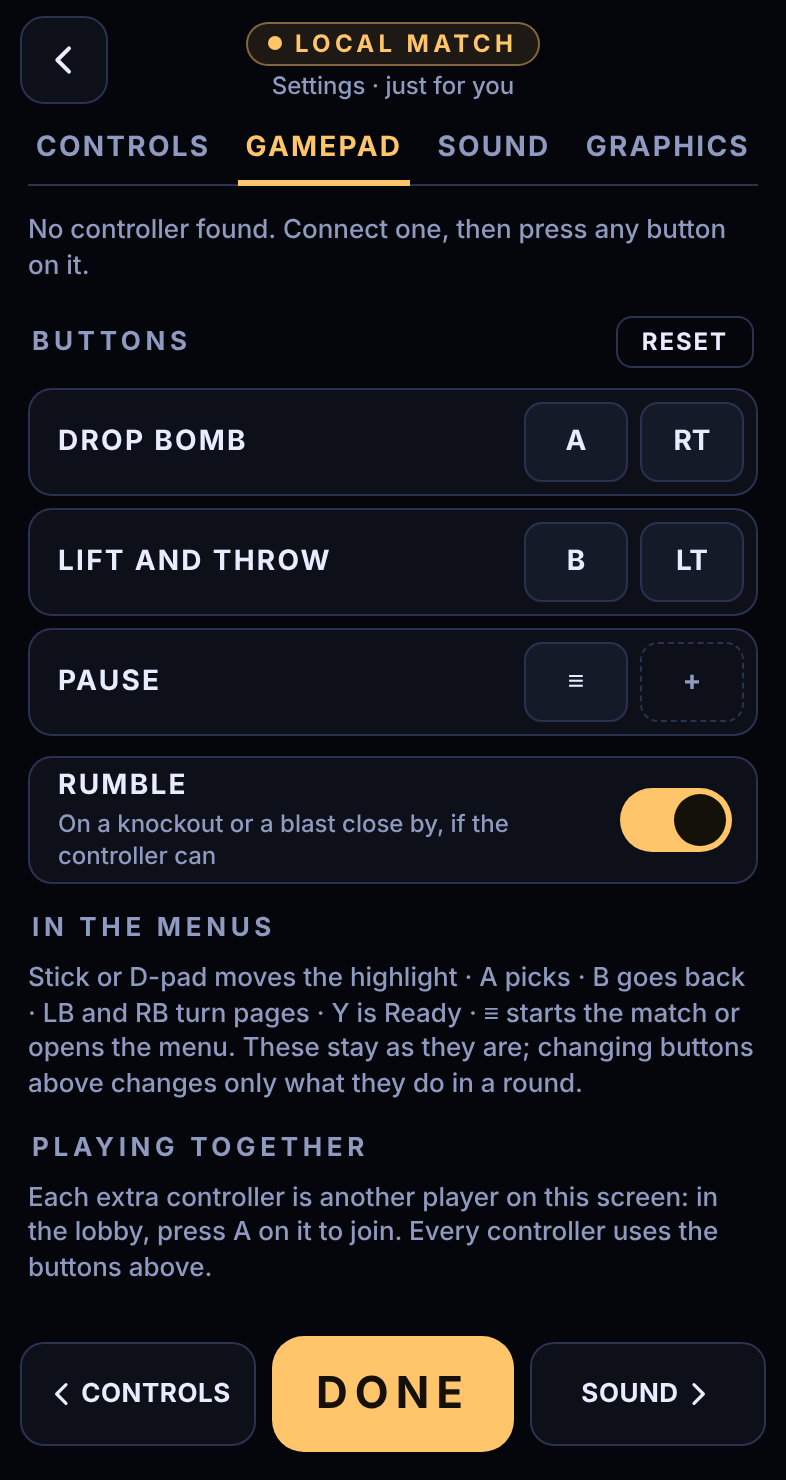
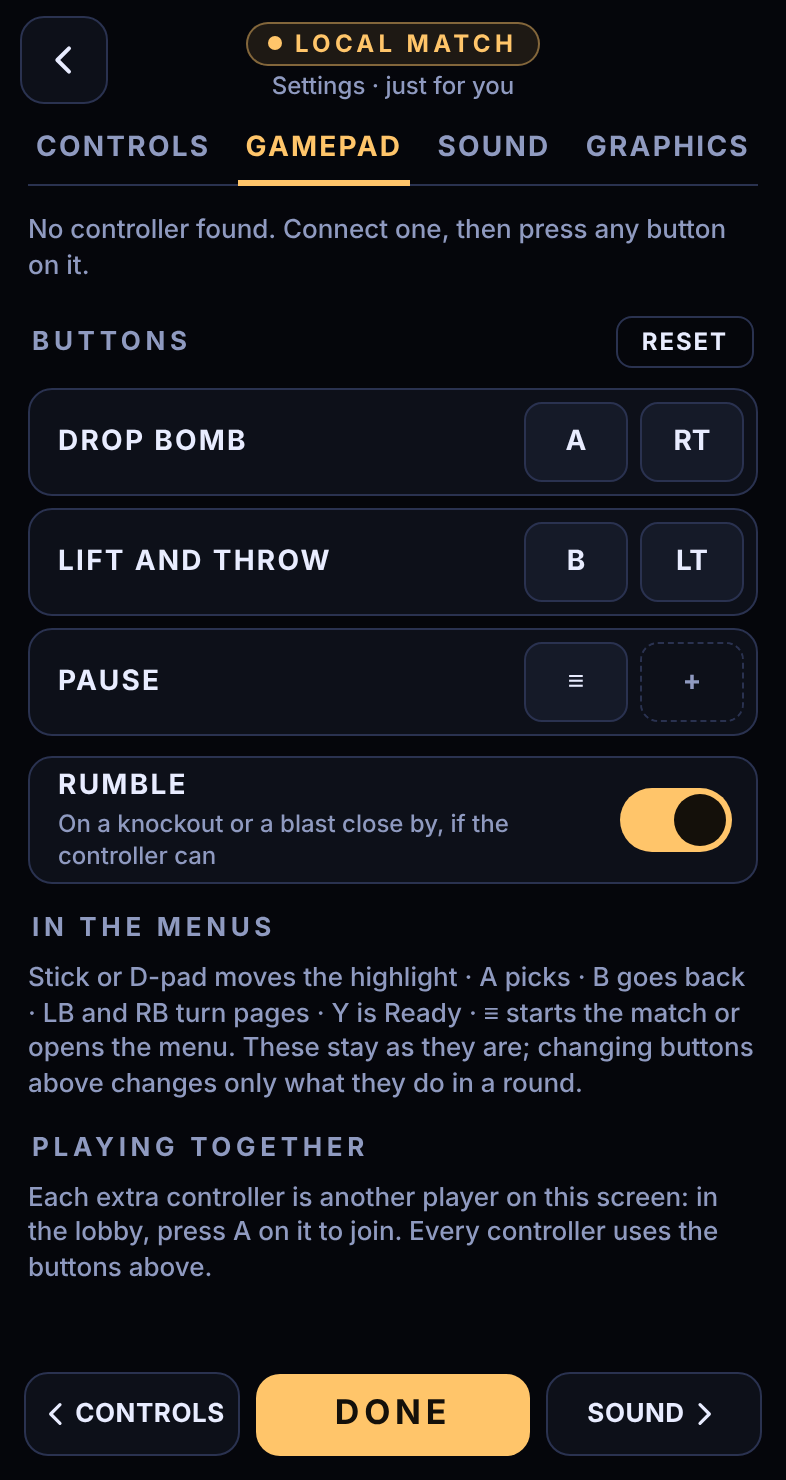
Slimmer bottom bars, ‹ beside the page names, and Ready becomes Next
- The bottom bars (lobby and Settings) are smaller
- The lobby's way back to Players is a ‹ at the top left beside Players and Match, not in the bottom bar
- Once you press Ready, the button becomes Next ›, which goes to the Match page

Claude-Session: https://claude.ai/code/session_011ftAyXDt63myZfd3j4Vhew

diff --git a/src/page.html b/src/page.html
@@ -19,9 +19,9 @@
     menuBtn   opens the menu during a match (pause)
     touch     on-screen controls: dzone (swipe pad, with the dpad cross and the padTag caption inside it), btnA, btnB
     lobby     setting up a match (lobby.ts): the bar (lobbyBack, lobbyMode, lobbySound, lobbySettings), the summary,
-              two pages (pgPlayers, pgMatch): lobbyPlayers (your robot youBot with colPrev, colNext and the colour
+              lobbyPrev (‹ beside the page names) and two pages (pgPlayers, pgMatch): lobbyPlayers (your robot youBot with colPrev, colNext and the colour
               dots youDots; the name over them, youName, with editName, the pencil that swaps it for a box (myName) to type your own; the player cards in slots; allCpus) and lobbyMatch (the arena picture arenaPic with
-              arenaPrev, arenaNext, arenaDots, and a Start under it, arenaStart; the rules; rulesReset); then lobbyPrev, lobbyStart, lobbyNext
+              arenaPrev, arenaNext, arenaDots, and a Start under it, arenaStart; the rules; rulesReset); then lobbyStart
     cpuSheet  a CPU player's panel, over the lobby: colour and level (cpuRows), cpuRemove, cpuDone
     settings  your own settings, four pages: setControls (Steering thumb: handLeft, handRight; Swipe
               direction: dirStandard, dirMine, matchState, matchStart; padOpts; keys: remapKeys, resetKeys),
@@ -411,6 +411,11 @@
     font: 700 15px/1 var(--font-display); letter-spacing: 0.12em; text-transform: uppercase; color: var(--ink-dim);
   }
   .pages button[aria-selected="true"] { color: var(--accent); border-bottom-color: var(--accent); }
+  .pages-row { flex: 0 0 auto; display: flex; align-items: stretch; margin: 0 14px; border-bottom: 1px solid var(--line); }
+  .pages-row .pages { flex: 1 1 auto; margin: 0; border-bottom: 0; }
+  .tab-back { position: relative; flex: 0 0 38px; display: grid; place-items: center; padding: 0; margin-bottom: -1px; cursor: pointer; color: var(--ink); background: transparent; border: 0; border-bottom: 3px solid transparent; }
+  .tab-back svg { width: 22px; height: 22px; fill: none; stroke: currentColor; stroke-width: 2.6; stroke-linecap: round; stroke-linejoin: round; }
+  .tab-back[hidden] { display: grid; visibility: hidden; }
   .scroll { flex: 1 1 auto; min-height: 0; overflow-y: auto; touch-action: pan-y; overscroll-behavior: contain; -webkit-overflow-scrolling: touch; }
   .cols { display: grid; grid-template-columns: minmax(0, 1fr); gap: 18px; max-width: 560px; margin: 0 auto; padding: 14px 14px 18px; }
   .page { display: flex; flex-direction: column; gap: 10px; min-width: 0; }
@@ -419,29 +424,27 @@
   @media (min-width: 820px) and (min-height: 480px) {
     #lobby .cols { grid-template-columns: repeat(2, minmax(0, 1fr)); max-width: 1040px; }
     #lobby .page[hidden] { display: flex; }
-    #lobby .pages, #lobby .side-btn { visibility: hidden; }
-    #lobby .pages { height: 0; border: 0; overflow: hidden; }
+    #lobby .pages-row { height: 0; border: 0; overflow: hidden; visibility: hidden; }
   }
-  .foot { flex: 0 0 auto; display: grid; grid-template-columns: 118px minmax(0, 1fr) 118px; align-items: center; gap: 8px; padding: 8px 10px 14px; max-width: 640px; width: 100%; margin: 0 auto; }
+  .foot { flex: 0 0 auto; display: grid; grid-template-columns: 108px minmax(0, 1fr) 108px; align-items: center; gap: 8px; padding: 6px 12px 12px; max-width: 560px; width: 100%; margin: 0 auto; }
+  .foot.one { grid-template-columns: minmax(0, 1fr); max-width: 420px; }
   .foot-note { flex: 0 0 auto; margin: 0 14px; text-align: center; font: 500 13px/1.3 var(--font-body); color: #ff9a9a; min-height: 0; }
   .foot-note:empty { display: none; }
   .foot-note.info { color: var(--accent); }
   .rdy { display: inline-block; white-space: nowrap; margin-top: 5px; padding: 2px 6px; font: 700 11px/1.2 var(--font-display); letter-spacing: 0.06em; text-transform: uppercase; color: var(--ink-dim); border: 1px solid var(--line); border-radius: 6px; }
   .rdy.on { color: #5cff8e; border-color: rgba(92, 255, 142, 0.45); }
-  .go.big { padding: 18px 12px; font-size: 22px; letter-spacing: 0.16em; border-radius: 16px; }
+  /* the bottom bar's main button: slim (the owner found the bigger one too much) */
+  .go.big { padding: 12px 12px; font-size: 17px; letter-spacing: 0.14em; border-radius: 12px; }
   .go.danger { color: #ff9a9a; background: transparent; border: 1.5px solid #5a2a34; }
   .go:disabled { opacity: 0.4; cursor: default; }
   .side-btn {
-    height: 52px; display: flex; align-items: center; justify-content: center; gap: 2px; padding: 0 6px; cursor: pointer;
+    height: 42px; display: flex; align-items: center; justify-content: center; gap: 2px; padding: 0 6px; cursor: pointer;
     font: 700 13px/1 var(--font-display); letter-spacing: 0.02em; text-transform: uppercase;
     color: var(--ink); background: var(--panel); border: 1px solid var(--line); border-radius: 12px;
   }
   .side-btn svg { width: 16px; height: 16px; flex: 0 0 auto; }
   .side-btn span { overflow: hidden; text-overflow: ellipsis; white-space: nowrap; }
   .side-btn[hidden] { display: flex; visibility: hidden; }
-  /* the lobby's Players page: no page arrows, and its one way on (Match ›) takes the whole bar */
-  .foot.solo .side-btn { display: none; }
-  .foot.solo .go.big { grid-column: 1 / -1; }
   .panel { background: var(--panel); border: 1px solid var(--line); border-radius: 16px; padding: 12px; display: flex; flex-direction: column; align-items: center; gap: 8px; }
   .you-row { width: 100%; display: flex; align-items: center; justify-content: space-between; gap: 6px; }
   #youBot { width: 150px; height: 150px; }
@@ -613,9 +616,9 @@
     .icon-btn { width: 40px; height: 40px; }
     .pages button { padding: 8px 0 6px; font-size: 13px; }
     .cols { padding-top: 10px; }
-    .foot { padding: 6px 10px 8px; }
-    .go.big { padding: 12px 10px; font-size: 18px; }
-    .side-btn { height: 44px; }
+    .foot { padding: 4px 10px 6px; }
+    .go.big { padding: 9px 10px; font-size: 15px; }
+    .side-btn { height: 36px; }
     #youBot { width: 110px; height: 110px; }
     .standings { display: grid; grid-template-columns: repeat(2, minmax(0, 1fr)); }
     .pause-card { width: min(100%, 620px); gap: 8px; padding: 12px 14px; }
@@ -729,7 +732,7 @@
   <button id="btnA" class="tbtn" type="button" aria-label="A button, drop bomb">A</button>
 </div>
 
-<!-- The lobby: two pages, Players and Match, with Start always in the middle of the bottom bar.
+<!-- The lobby: two pages, Players and Match, with one slim button in the bottom bar (Match › or Start).
      main.ts and lobby.ts fill it in. On a wide screen both pages show side by side. -->
 <div id="lobby" class="screen" hidden>
   <header class="bar">
@@ -744,10 +747,14 @@
     </div>
   </header>
   <p class="summary" id="lobbySummary" aria-live="polite"></p>
-  <nav class="pages" role="tablist" aria-label="Lobby pages">
-    <button type="button" role="tab" id="pgPlayers" aria-controls="lobbyPlayers">Players</button>
-    <button type="button" role="tab" id="pgMatch" aria-controls="lobbyMatch">Match</button>
-  </nav>
+  <!-- the way back to Players sits at the top left, beside the page names (the owner's ask) -->
+  <div class="pages-row">
+    <button id="lobbyPrev" class="tab-back" type="button" aria-label="Back to Players" data-pad="LB" data-key="Q"><svg viewBox="0 0 24 24" aria-hidden="true"><path d="M15 5l-7 7 7 7"/></svg></button>
+    <nav class="pages" role="tablist" aria-label="Lobby pages">
+      <button type="button" role="tab" id="pgPlayers" aria-controls="lobbyPlayers">Players</button>
+      <button type="button" role="tab" id="pgMatch" aria-controls="lobbyMatch">Match</button>
+    </nav>
+  </div>
   <div class="scroll">
     <div class="cols">
       <section id="lobbyPlayers" class="page" role="tabpanel" aria-labelledby="pgPlayers">
@@ -791,10 +798,8 @@
   </div>
   <div class="undo" id="undoBar" role="status" hidden><span id="undoText"></span><button class="mini" id="undoBtn" type="button">Undo</button></div>
   <p class="foot-note" id="startNote" role="status"></p>
-  <footer class="foot">
-    <button id="lobbyPrev" class="side-btn" type="button" data-pad="LB" data-key="Q"><svg viewBox="0 0 24 24" aria-hidden="true"><path d="M15 5l-7 7 7 7"/></svg><span>Players</span></button>
+  <footer class="foot one">
     <button id="lobbyStart" class="go big" type="button">Start</button>
-    <button id="lobbyNext" class="side-btn" type="button" data-pad="RB" data-key="E"><span>Match</span><svg viewBox="0 0 24 24" aria-hidden="true"><path d="M9 5l7 7-7 7"/></svg></button>
   </footer>
 </div>
 

diff --git a/src/lobby.ts b/src/lobby.ts
@@ -204,7 +204,11 @@ export function createLobby(host: LobbyHost): {
     cell.append(b, tag);
     dots.append(cell);
   }
-  $('colOk').addEventListener('click', readyUp);
+  // Ready, and once ready, Next: on to the Match page (the owner's ask)
+  $('colOk').addEventListener('click', () => {
+    if (ready && pick === host.myColor && !wide()) setPage('match');
+    else readyUp();
+  });
   // Your own name: the pencil beside the name over the colours swaps it for a box to type in (the owner's
   // design). Your name then shows there and on your card in place of the robot's. Emptied, it goes back to
   // the robot's name. Online, every real player will type theirs the same way.
@@ -605,9 +609,8 @@ export function createLobby(host: LobbyHost): {
     $('pgMatch').setAttribute('aria-selected', String(p === 'match'));
     $('lobbyPlayers').hidden = p !== 'players';
     $('lobbyMatch').hidden = p !== 'match';
-    // the Players page's only way on is its main button (Match ›), so it has no › beside it
+    // ‹ back to Players, at the top left beside the page names (the owner's ask); none on the Players page
     $('lobbyPrev').hidden = p === 'players';
-    $('lobbyNext').hidden = true;
     const sc = document.querySelector('#lobby .scroll');
     if (sc) sc.scrollTop = 0;
     refresh();
@@ -618,7 +621,6 @@ export function createLobby(host: LobbyHost): {
   $('pgPlayers').addEventListener('click', () => setPage('players'));
   $('pgMatch').addEventListener('click', () => setPage('match'));
   $('lobbyPrev').addEventListener('click', () => setPage('players'));
-  $('lobbyNext').addEventListener('click', () => setPage('match'));
   $('lobbyBack').addEventListener('click', () => host.back());
   $('lobbySound').addEventListener('click', () => host.settings('sound'));
   $('lobbySettings').addEventListener('click', () => host.settings());
@@ -736,8 +738,12 @@ export function createLobby(host: LobbyHost): {
     // no explanations on this page (the owner's call): only a short note when Ready would swap with a CPU player
     $('youState').textContent = !mine && wearer >= 0 ? `Swaps with P${cpuP(wearer)}` : '';
     const ok = $<HTMLButtonElement>('colOk');
-    ok.disabled = mine && ready;
-    ok.textContent = mine && ready ? '✓ Ready' : 'Ready'; // just Ready (the owner's wording): the robot's name is right above it
+    // just Ready (the owner's wording): the robot's name is right above it. Once ready it becomes Next, on to
+    // the Match page; a wide screen already shows that page, so there it just says it is done.
+    const next = mine && ready && !wide();
+    ok.disabled = mine && ready && !next;
+    ok.textContent = next ? 'Next ›' : mine && ready ? '✓ Ready' : 'Ready';
+    ok.setAttribute('aria-label', next ? 'Ready. Next: the Match page' : ok.textContent);
     for (const c of COLORS) {
       const b = $<HTMLButtonElement>(`dot-${c.id}`);
       const cpu = s().cpus.findIndex((x) => x.colorId === c.id);
@@ -781,7 +787,6 @@ export function createLobby(host: LobbyHost): {
     const go = $<HTMLButtonElement>('lobbyStart');
     const toMatch = page === 'players' && !wide();
     go.textContent = toMatch ? 'Match ›' : 'Start';
-    go.parentElement!.classList.toggle('solo', toMatch);
     // its hint: RB (or E) turns to the Match page; ≡ starts
     go.dataset.pad = toMatch ? 'RB' : '≡';
     if (toMatch) go.dataset.key = 'E';

diff --git a/docs/CONTROLS.md b/docs/CONTROLS.md
@@ -46,13 +46,13 @@ The caption on the swipe pad (*Standard swipes* or *My thumb swipes*) is centred
   <img src="screenshots/menu-paused.png" alt="The menu opened in the middle of a round" width="200">
 </p>
 
-**Local** on the title screen opens the **lobby**, where a match is set up. It has two pages, **Players** and **Match**. The page names along the top switch pages. On the Players page the bottom bar is **Match ›**; on the Match page it is **‹ Players** and **Start**, and there is a second **Start** right under the arena picture. Either Start, when you are not ready, asks first. On a wide screen both pages show side by side.
+**Local** on the title screen opens the **lobby**, where a match is set up. It has two pages, **Players** and **Match**. The page names along the top switch pages, and on the Match page a **‹** at the top left, beside them, goes back to Players. The bottom bar is one slim button: **Match ›** on the Players page, **Start** on the Match page, and there is a second **Start** right under the arena picture. Once you have pressed **Ready**, that button becomes **Next ›**, which goes on to the Match page. Either Start, when you are not ready, asks first. On a wide screen both pages show side by side.
 
-- **Players:** your robot, with ‹ › either side, a dot for each colour under it, and a swipe across the robot: three ways to pick a colour. Each colour is a robot with its own name (Auric, Onyx, Fizz, Volt, Blaze, Tango, Frost, Gizmo, Vortex), shown over the dots and on the cards. The **pencil** beside that name lets you type your own name in its place. It shows on your robot, and becomes yours when you press **Ready** (or double-tap the dot): a **P1** tag pops up under it and your card shows **✓ Ready**. **P2** to **P8** sit under the CPU players' colours, and CPU players are always ready. Take a CPU player's colour and it gets the one you had. Picking another colour takes Ready away until you press it again. This page has no Start: its bottom bar is one wide **Match ›** button. Then a card for each player. Tap a CPU player's card for its panel: Colour, Level (with what that level does), Remove and Done. The **bin** on a CPU player's card removes it at once; an **Undo** bar shows for a few seconds. **Add CPU player** adds one, up to seven (eight players in all). With more than six players the arena grows by two tiles each way. **All CPUs** sets every CPU player's level at once.
+- **Players:** your robot, with ‹ › either side, a dot for each colour under it, and a swipe across the robot: three ways to pick a colour. Each colour is a robot with its own name (Auric, Onyx, Fizz, Volt, Blaze, Tango, Frost, Gizmo, Vortex), shown over the dots and on the cards. The **pencil** beside that name lets you type your own name in its place. It shows on your robot, and becomes yours when you press **Ready** (or double-tap the dot): a **P1** tag pops up under it, your card shows **✓ Ready**, and the Ready button becomes **Next ›** (on a wide screen, where both pages show, it says **✓ Ready**). **P2** to **P8** sit under the CPU players' colours, and CPU players are always ready. Take a CPU player's colour and it gets the one you had. Picking another colour takes Ready away until you press it again. This page has no Start: its bottom bar is one wide **Match ›** button. Then a card for each player. Tap a CPU player's card for its panel: Colour, Level (with what that level does), Remove and Done. The **bin** on a CPU player's card removes it at once; an **Undo** bar shows for a few seconds. **Add CPU player** adds one, up to seven (eight players in all). With more than six players the arena grows by two tiles each way. **All CPUs** sets every CPU player's level at once.
 - **Match** (the host's): the arena, with ‹ ›, dots or a swipe (Compact 11 by 9 tiles, Classic 13 by 11, Big 15 by 13; the picture is the real arena, with the bricks the rules ask for), then the rules: Round timer (a switch; when on, Round length and Closing in appear under it; picking an arena puts in its own round length and closing speed), Rounds to win, Bricks, Custom start (a switch; Bombs, Blast and Speed under it), Custom power-ups (a switch; a slider for each power-up under it). **Put the rules back to normal** asks first.
 - Every slider has − and + beside it, and every setting is saved on this device as it changes.
 
-**Settings** are your own and change nobody else's game. Open them with the gear or the speaker in the lobby, or with Settings in the menu during a match. Four pages, with Done in the middle of the bottom bar:
+**Settings** are your own and change nobody else's game. Open them with the gear or the speaker in the lobby, or with Settings in the menu during a match. Four pages, with a slim Done in the middle of the bottom bar and the pages either side of it:
 
 | Page | What is on it |
 |---|---|
@@ -80,7 +80,7 @@ On a computer the touch controls are hidden and the keyboard is used. An Xbox co
 
 In the menus with a controller: the stick or D-pad moves the highlight, and held it keeps going; on a slider or a ‹ value › setting, left and right change it. **A** presses the highlighted button, **B** goes back one step, **LB** and **RB** turn the pages, **Y** is Ready in the lobby, and **≡** is Start in the lobby and opens or closes the menu in a round. The controller shakes (rumble) when your robot is knocked out and when a blast goes off within two tiles of it, unless Rumble is off in Settings › Controls.
 
-**Hints follow the last thing used.** After a controller button, small chips show which button does what (B on the back arrow, Y on Ready, RB on Match ›, ≡ on Start, LB and RB on the page arrows) and the highlighted button has a clear outline. After a key, the chips show the keys instead (Q, E, Escape). After a touch or a click, they go.
+**Hints follow the last thing used.** After a controller button, small chips show which button does what (B on the back arrow, Y on Ready, RB on Match ›, ≡ on Start, LB on the lobby's ‹ and LB and RB on the Settings page arrows) and the highlighted button has a clear outline. After a key, the chips show the keys instead (Q, E, Escape). After a touch or a click, they go.
 
 ### Changing keys and buttons
 

diff --git a/CLAUDE.md b/CLAUDE.md
@@ -38,7 +38,7 @@ Do not undo these unless asked. The reasons are in `docs/ROADMAP.md` and `docs/C
 - The robot stops where you let go. Whole-tile stepping was tried and rejected (`stepAssist` exists in `sim.ts` but stays off, with no menu setting).
 - A resting thumb has a quiet zone; small movements, slow drift and bounce-back are ignored. Its size is fixed (`QUIET` 30 px). A menu choice of swipe length was tried and removed: do not bring it back unless asked.
 - The Players page has no explanations (the owner's call): no help paragraphs, only a short "Swaps with P3" under your robot's name when Ready would swap with a CPU player. Settings' icon is a gear.
-- The lobby (`lobby.ts`, setup in `setup.ts`), built to the owner's notes on an approved mockup: every button works, back and forward work, more than one way to do each thing, a switch that reveals a slider under it, more options, each CPU player's level its own, and saying whether play is local or online. Two pages, Players and Match. The Players page cannot start a match (the owner's call): its bottom bar is one wide **Match ›** button. The Match page has ‹ Players and **Start**, and a second Start right under the arena picture (the owner's ask, to be close to hand; `arenaStart`, the same `tryStart`); Start when you are not ready asks first ("Are you ready?", its button just **Ready & Start**, no robot names, the owner's wording; the same button when other players here are not ready), and a line above the bar says you are not ready. On a wide screen both pages show side by side and the button is Start. Players: your colour by ‹ ›, dots or a swipe; a card per player; a CPU player's panel (Colour, Level, Remove, Done); Add CPU player up to seven (eight players in all: the owner's limit); a bin on each CPU player's card removes it at once, with Undo; All CPUs. Match (the host's): the arena (Compact, Classic, Big) and the rules (Round timer with length and Closing in, Rounds to win, Bricks, Custom start, Custom power-ups; Put the rules back to normal). Sliders have − and + beside them. Saved as it changes. Build any new setting from `ui.ts` controls, and only add one that really does something.
+- The lobby (`lobby.ts`, setup in `setup.ts`), built to the owner's notes on an approved mockup: every button works, back and forward work, more than one way to do each thing, a switch that reveals a slider under it, more options, each CPU player's level its own, and saying whether play is local or online. Two pages, Players and Match. The Players page cannot start a match (the owner's call): its bottom bar is one wide **Match ›** button. The bottom bars are slim (the owner's ask). The Match page's way back to Players is a ‹ at the top left beside the page names (`lobbyPrev`, the owner's ask), and its bar is **Start**; there is a second Start right under the arena picture (the owner's ask, to be close to hand; `arenaStart`, the same `tryStart`); Start when you are not ready asks first ("Are you ready?", its button just **Ready & Start**, no robot names, the owner's wording; the same button when other players here are not ready), and a line above the bar says you are not ready. On a wide screen both pages show side by side and the button is Start. Players: your colour by ‹ ›, dots or a swipe; once you press Ready the button becomes **Next ›**, on to the Match page (the owner's ask; just ✓ Ready on a wide screen); a card per player; a CPU player's panel (Colour, Level, Remove, Done); Add CPU player up to seven (eight players in all: the owner's limit); a bin on each CPU player's card removes it at once, with Undo; All CPUs. Match (the host's): the arena (Compact, Classic, Big) and the rules (Round timer with length and Closing in, Rounds to win, Bricks, Custom start, Custom power-ups; Put the rules back to normal). Sliders have − and + beside them. Saved as it changes. Build any new setting from `ui.ts` controls, and only add one that really does something.
 - Each colour is a robot with a name of its own (`bot` in `COLORS`, `botName` in `render.ts`; Claude's names, asked for by the owner): Gold Auric, Black Onyx, Pink Fizz, Blue Volt, Red Blaze, Orange Tango, White Frost, Green Gizmo, Purple Vortex. The menus and results use these names in place of colour words: the big name over the colour dots in the lobby, the player cards, a CPU player's panel (its Robot choice), the menu's standings, "Volt wins the round", "Caught in Fizz's blast". A CPU player's name is its robot's, so it changes with its colour.
 - You can type your own name: the pencil beside the name over the colour dots swaps it for a box (`myName`; up to 12 characters, saved as `playerName`; Enter, a tap elsewhere or the pencil again finishes; emptied, it goes back to the robot's name). It shows there, on your player card and in the menu's standings in place of the robot's name or "You" (the owner's design, in place of a "Your name" row); results still say "You". Online, every real player will type theirs there. A typed name is always set as text, never as markup, and the game's keys (moves, A, B, Q, E) are ignored while typing (`typing` in `input.ts`).
 - Ask first (`confirmFirst` in `ui.ts`) before anything that cannot be undone: Restart, Leave to the lobby, Put the rules back to normal. Removing a CPU player (the bin on its card, or Remove on its panel) does not ask, as the owner wanted it quick: it shows an Undo bar for six seconds instead. Nothing else asks. Escape goes back one step everywhere; Q and E turn pages.

diff --git a/docs/ROADMAP.md b/docs/ROADMAP.md
@@ -137,6 +137,7 @@ This is the brief the project started from.
 | Your name by a pencil, and no explanations on the Players page | The owner's design: a small pencil beside the name over the colour dots lets you type your own name in its place (a first version had a "Your name" row). The help paragraphs on the Players page were removed as unnecessary; only "Swaps with P3" shows when Ready would take a CPU player's colour. The Settings button is a gear. |
 | Each arena has its own time and closing speed | The owner asked for the rules to scale with the arena, and chose them one by one: Compact 1:00 rounds with the blocks closing in slightly faster (Quick, 42 s), Classic as it was (1:30, Normal 50 s), Big 2:00 with the same closing speed as Classic. They are put in every time an arena is picked, and can be changed after. Bricks and power-ups stay as they are, since they already scale with the number of tiles. Closing in gained two steps for this (Slow 60 s, Quick 42 s), and the old Slow and Fast became Very slow and Fast. (Claude had suggested Fast for Compact and Slow for Big, which would land blocks about 0.5 s apart on every arena; the owner chose otherwise.) |
 | Rounds to win is 1 by default | The owner's call: a match is one round unless the lobby says otherwise (it was first to 3). Setups saved before the change have their Rounds to win put back to 1 (`SETUP_VERSION` in `setup.ts`). |
+| Slim bottom bars, ‹ at the top, Ready then Next | The owner's ask: the bottom bars are smaller; the Match page's way back to Players is a ‹ at the top left, beside the page names, not in the bottom bar; once you press Ready it becomes Next ›, which goes to the Match page. |
 | A second Start under the arena | The owner's ask, so Start is close to hand on the Match page: a full-width Start under the arena picture, doing exactly what the Start in the bottom bar does. |
 | One Restart, for the whole match | The menu first had Restart round and New match. The owner had Restart round removed and asked for a Restart that restarts the game completely: everyone's score back to 0 and round 1 in a new arena, with the same players and rules. It asks first. |
 | Settings are your own | Sound (sound effects on/off with the volume under it; a switch and a ▶ for each of the 11 sounds), Controls (steering thumb, swipe direction, how strongly the touch controls show, keys), Graphics (sharpness, ghosts, less movement). Reached from the lobby's gear and speaker and from the menu during a match, not from the title screen. There is no music yet, so there is no music switch; the page says it will come. |
